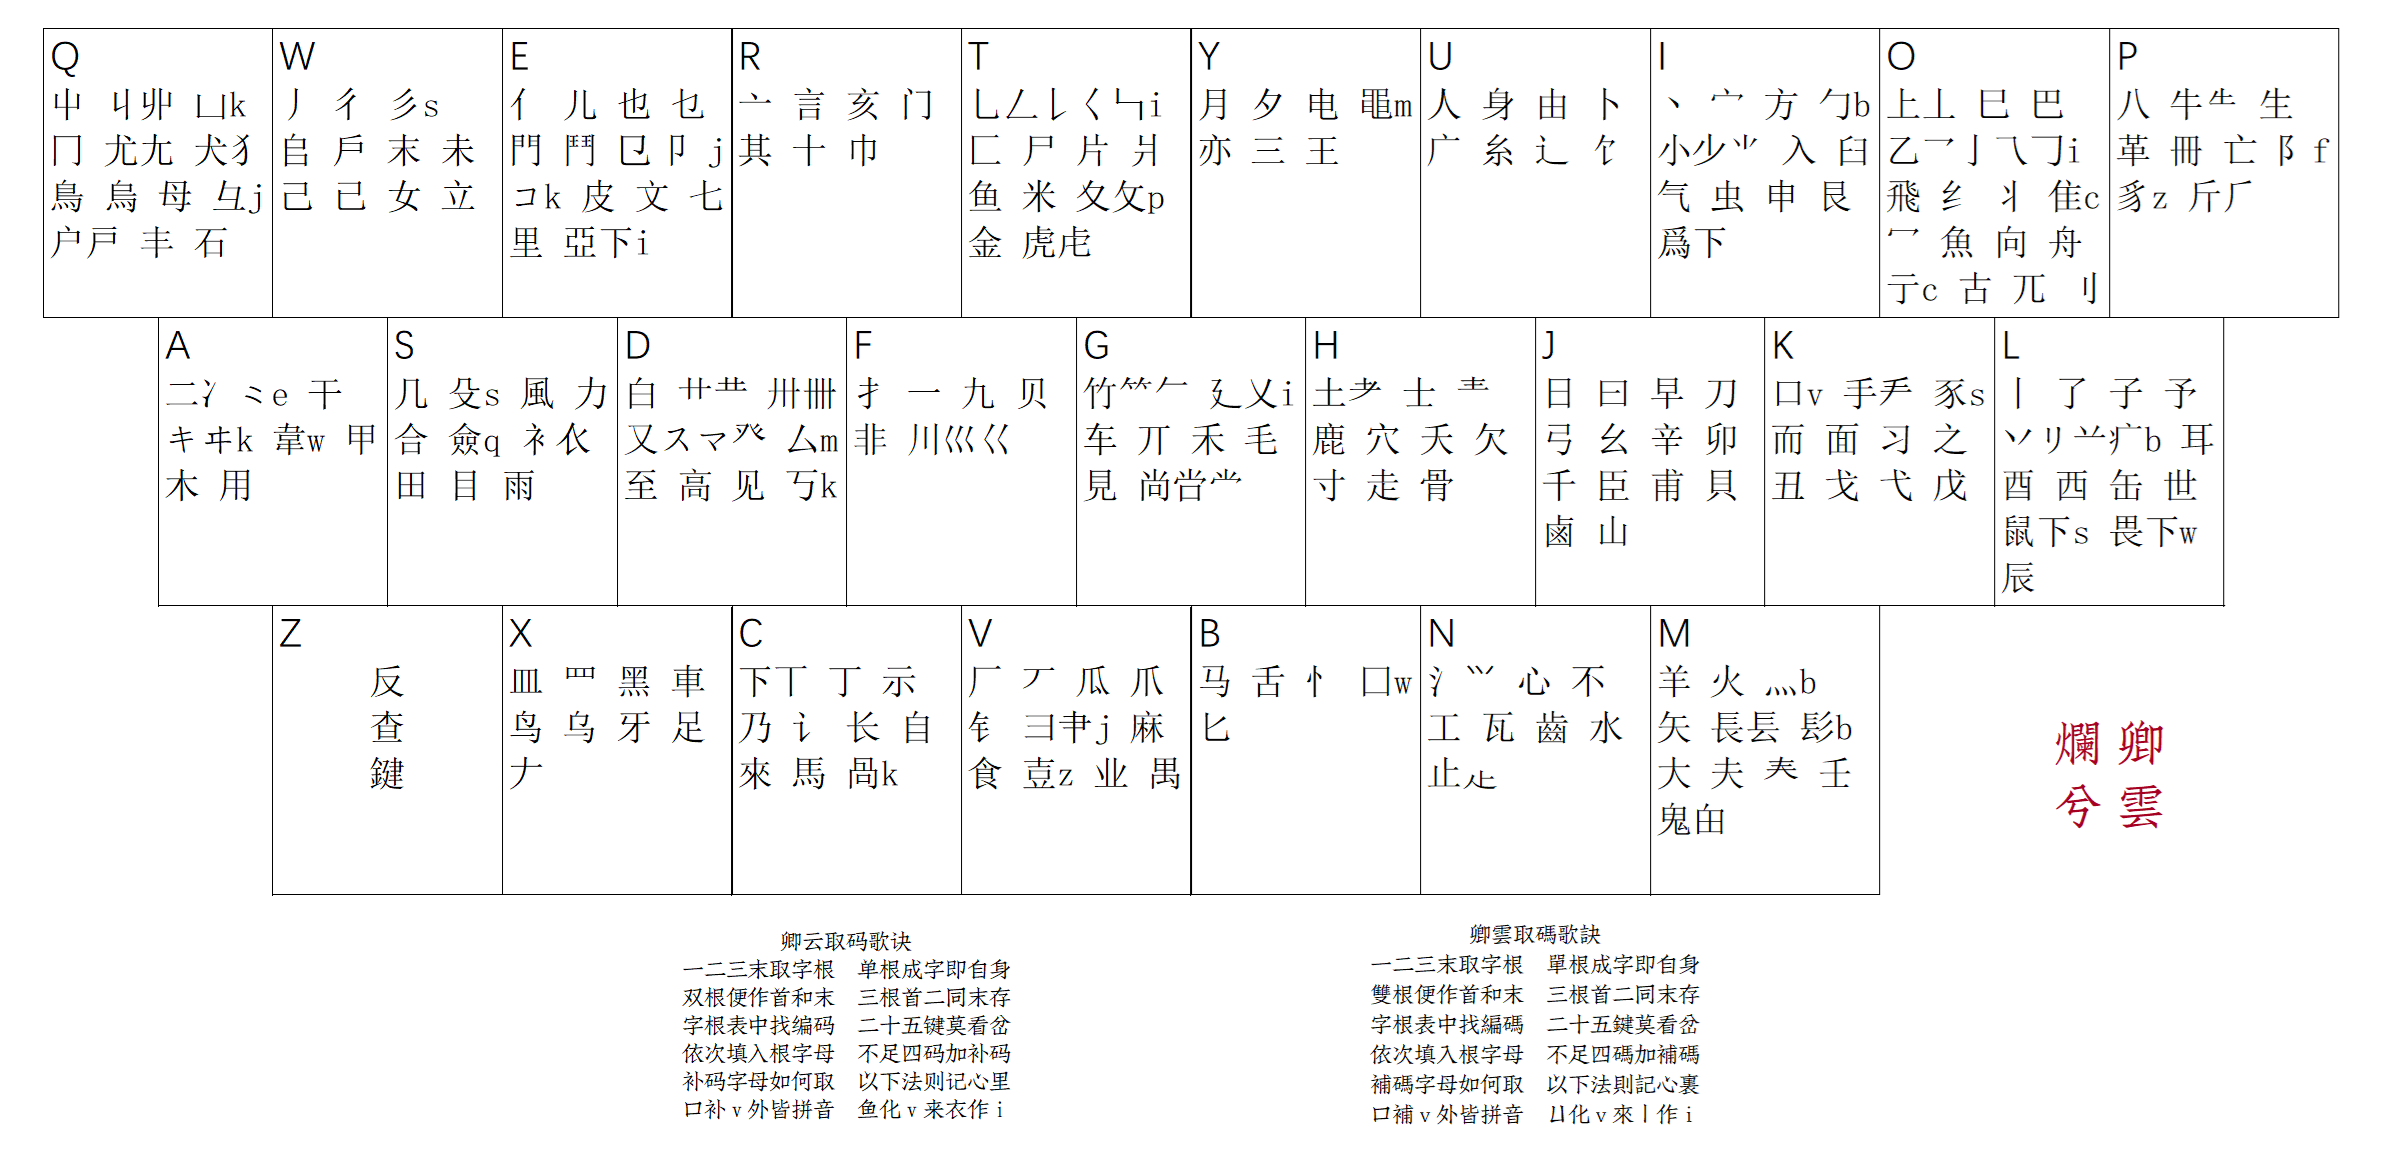
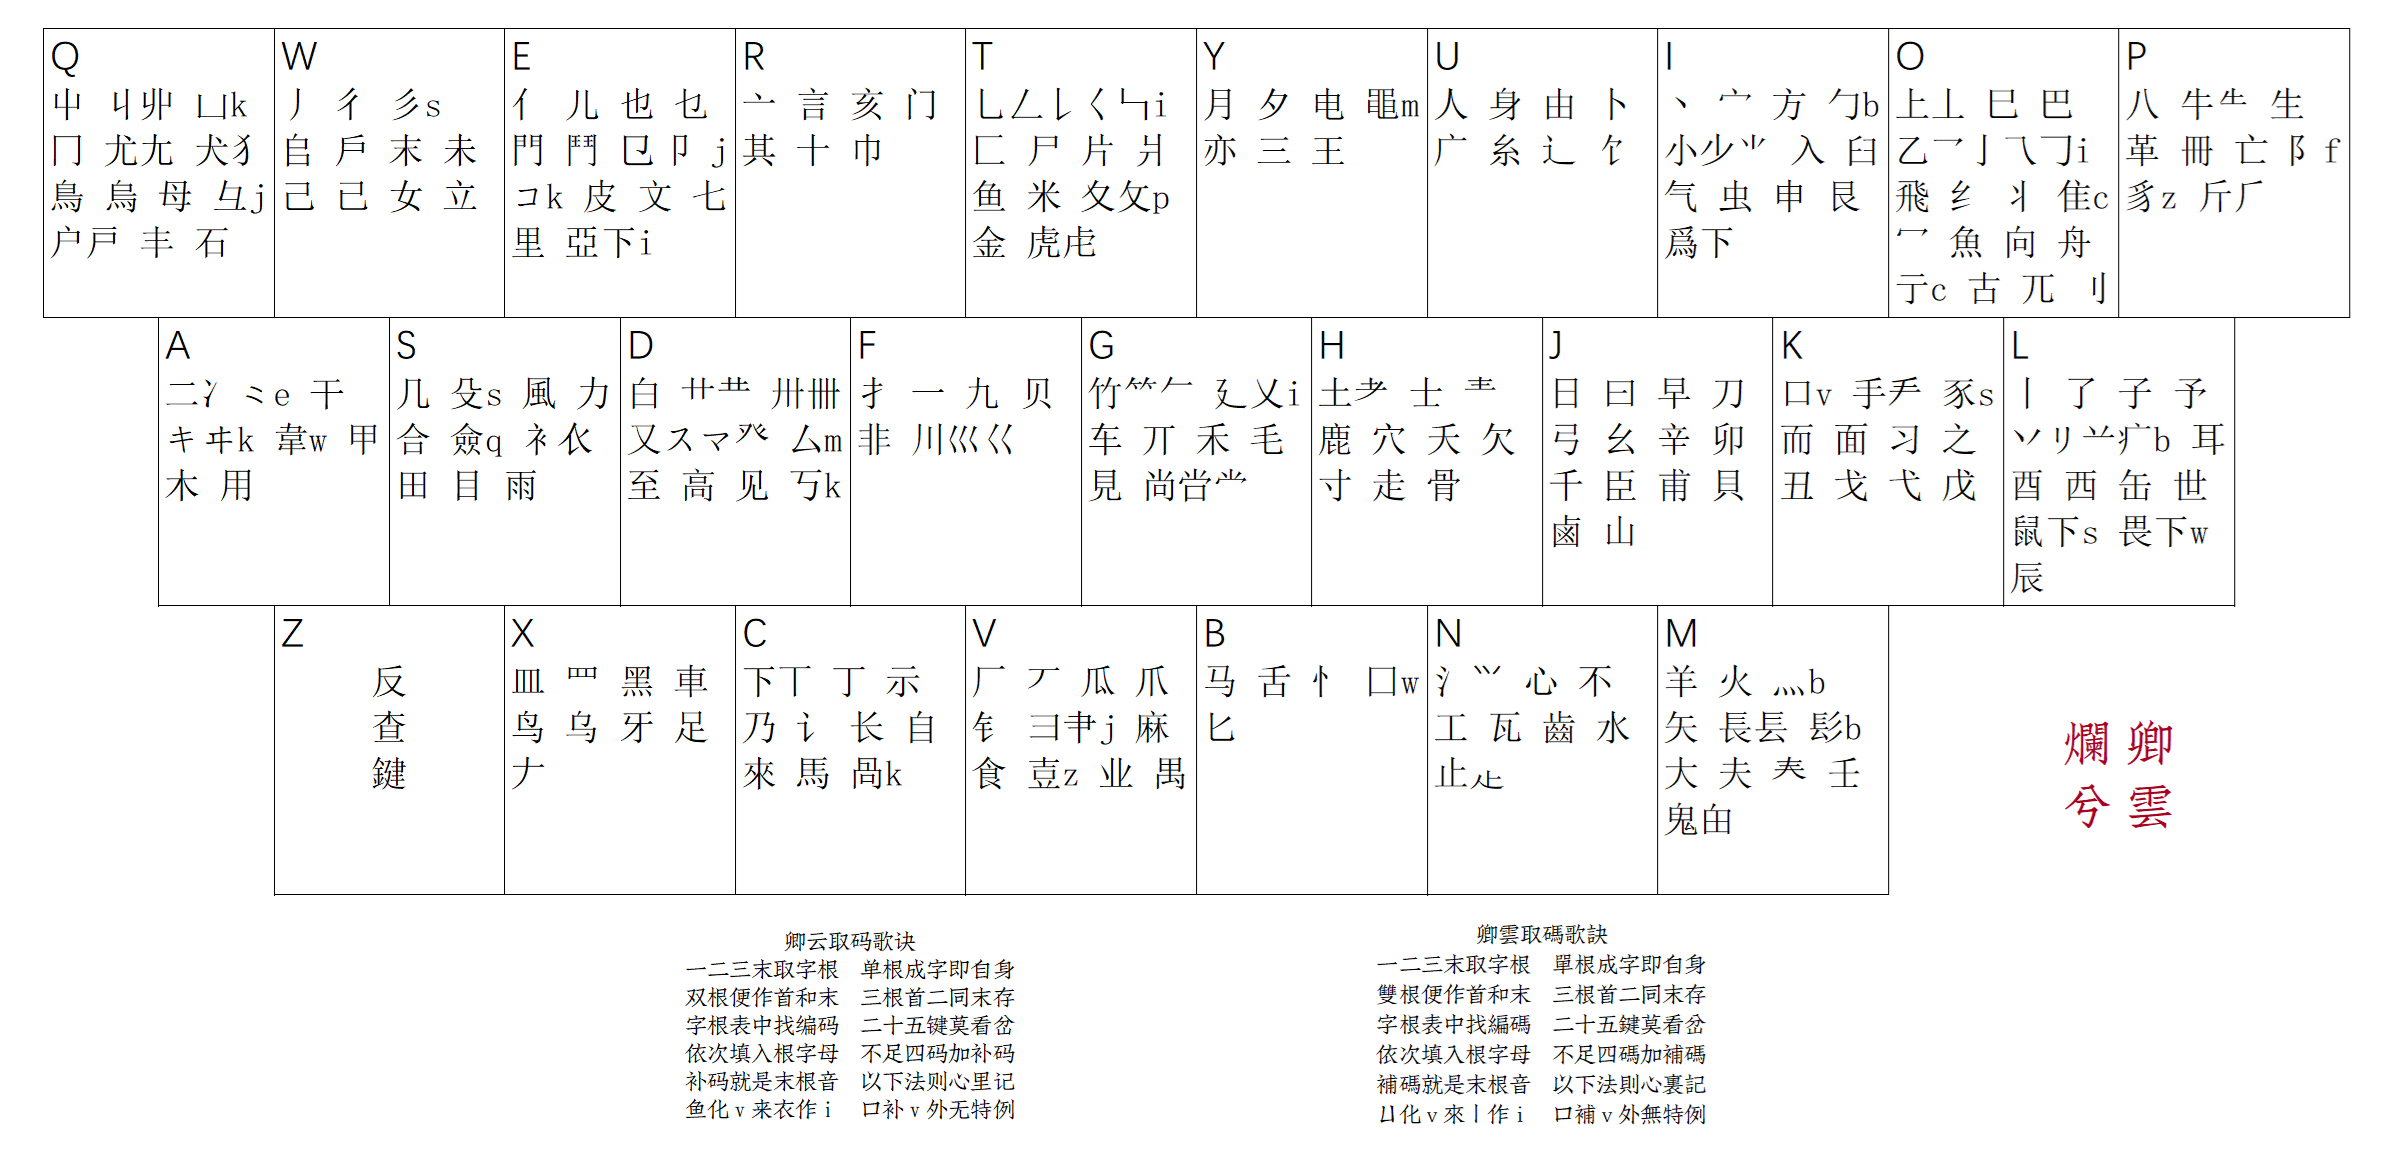
Update to v3.4.0-rc

diff --git a/build_release.py b/build_release.py
@@ -10,7 +10,7 @@ from distutils.dir_util import copy_tree
 from distutils.dir_util import remove_tree
 from shutil import copyfile
 
-version = "v3.4.0-beta"
+version = "v3.4.0-rc"
 
 # %%
 try:

diff --git a/index.md b/index.md
@@ -38,13 +38,13 @@ nav_order: 1
 本方案的**补码**，是末根的读音首字母，唯一的例外是高频「口」字根。
 
 {: .highlight }
-《卿云取码八十四字歌诀》  
-一二三末取字根，单根成字即自身。  
-双根便作首和末，三根首二同末存。  
-字根表中找编码，二十五键莫看岔。  
-依次填入根字母，不足四码加补码。  
-补码字母如何取，以下法则记心里。  
-口补ｖ外皆拼音，鱼化ｖ来衣作ｉ。
+卿云取码歌诀  
+一二三末取字根　单根成字即自身  
+双根便作首和末　三根首二同末存  
+字根表中找编码　二十五键莫看岔  
+依次填入根字母　不足四码加补码  
+补码就是末根音　以下法则心里记  
+鱼化ｖ来衣作ｉ　口补ｖ外无特例  
 
 | 末根补码 | 规则                    | 举例                    |
 | :------- | :---------------------- | ----------------------- |
